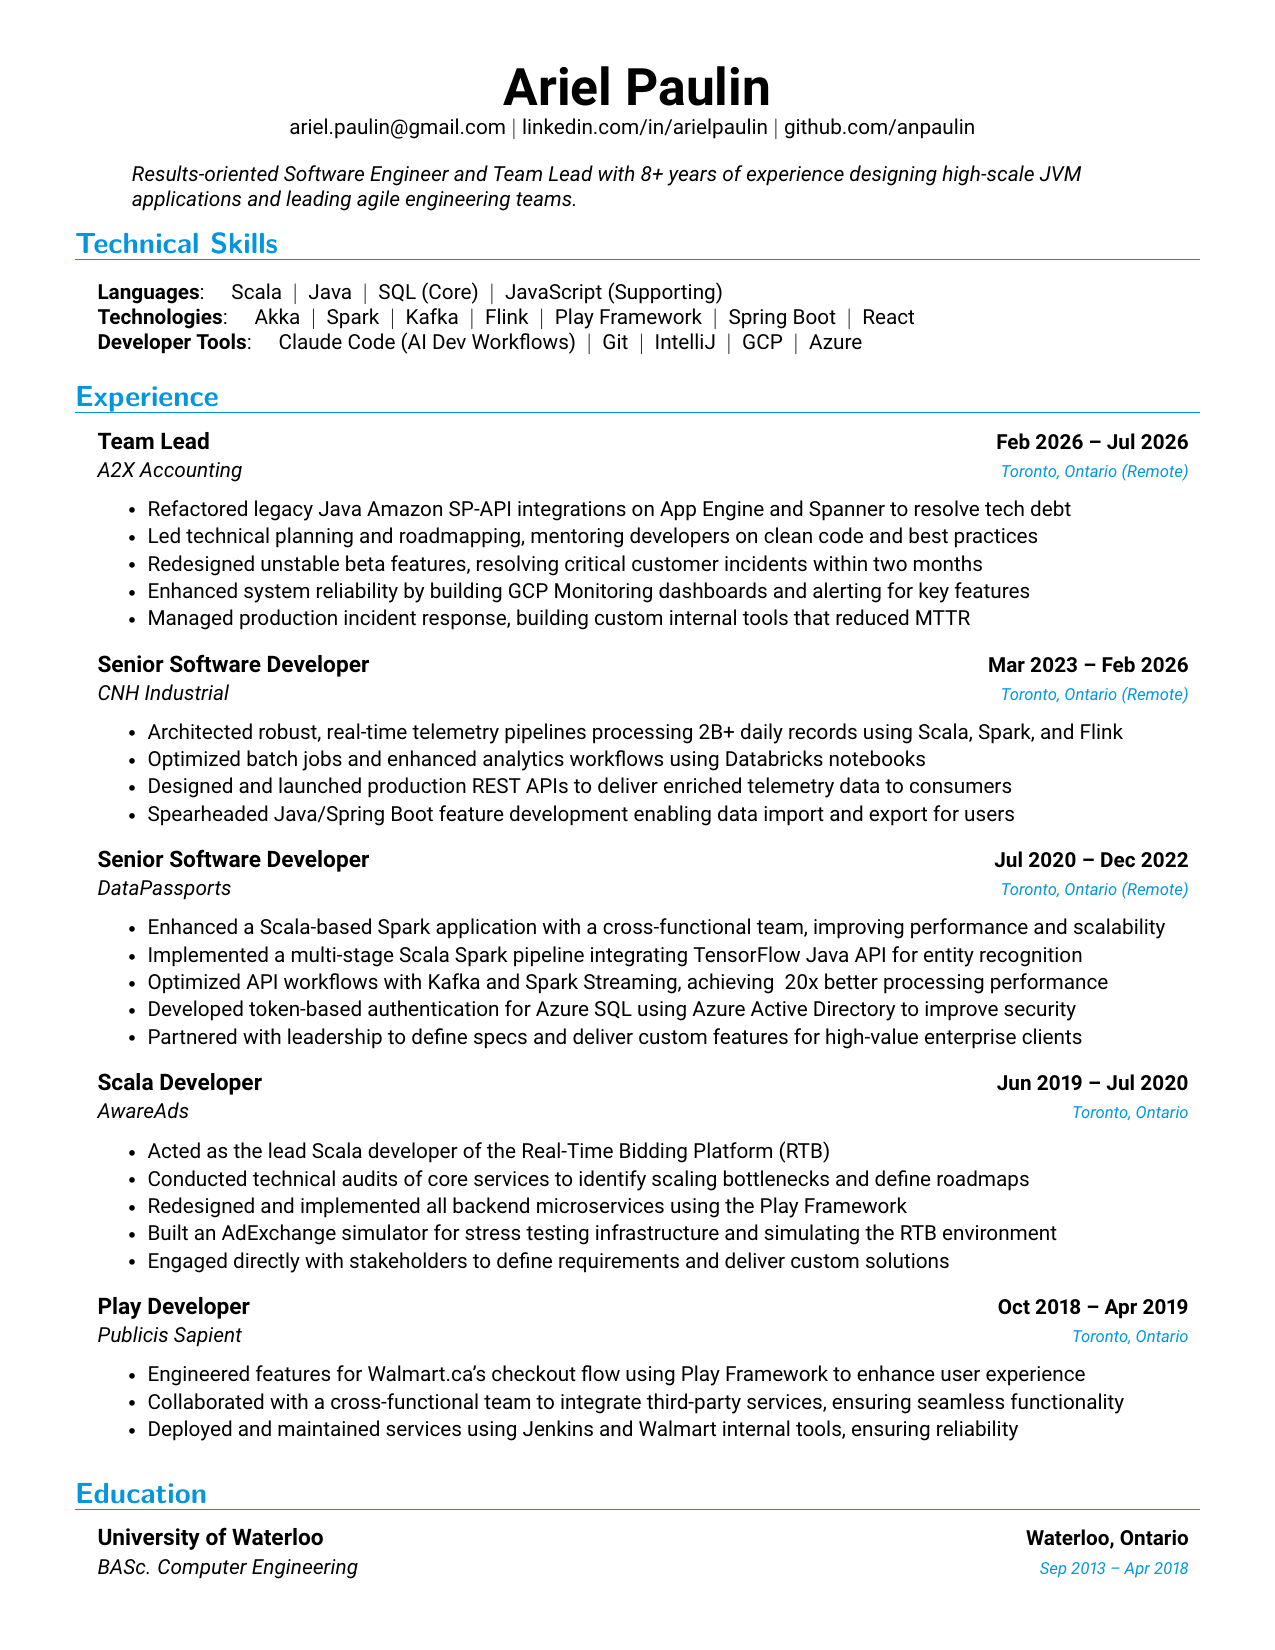
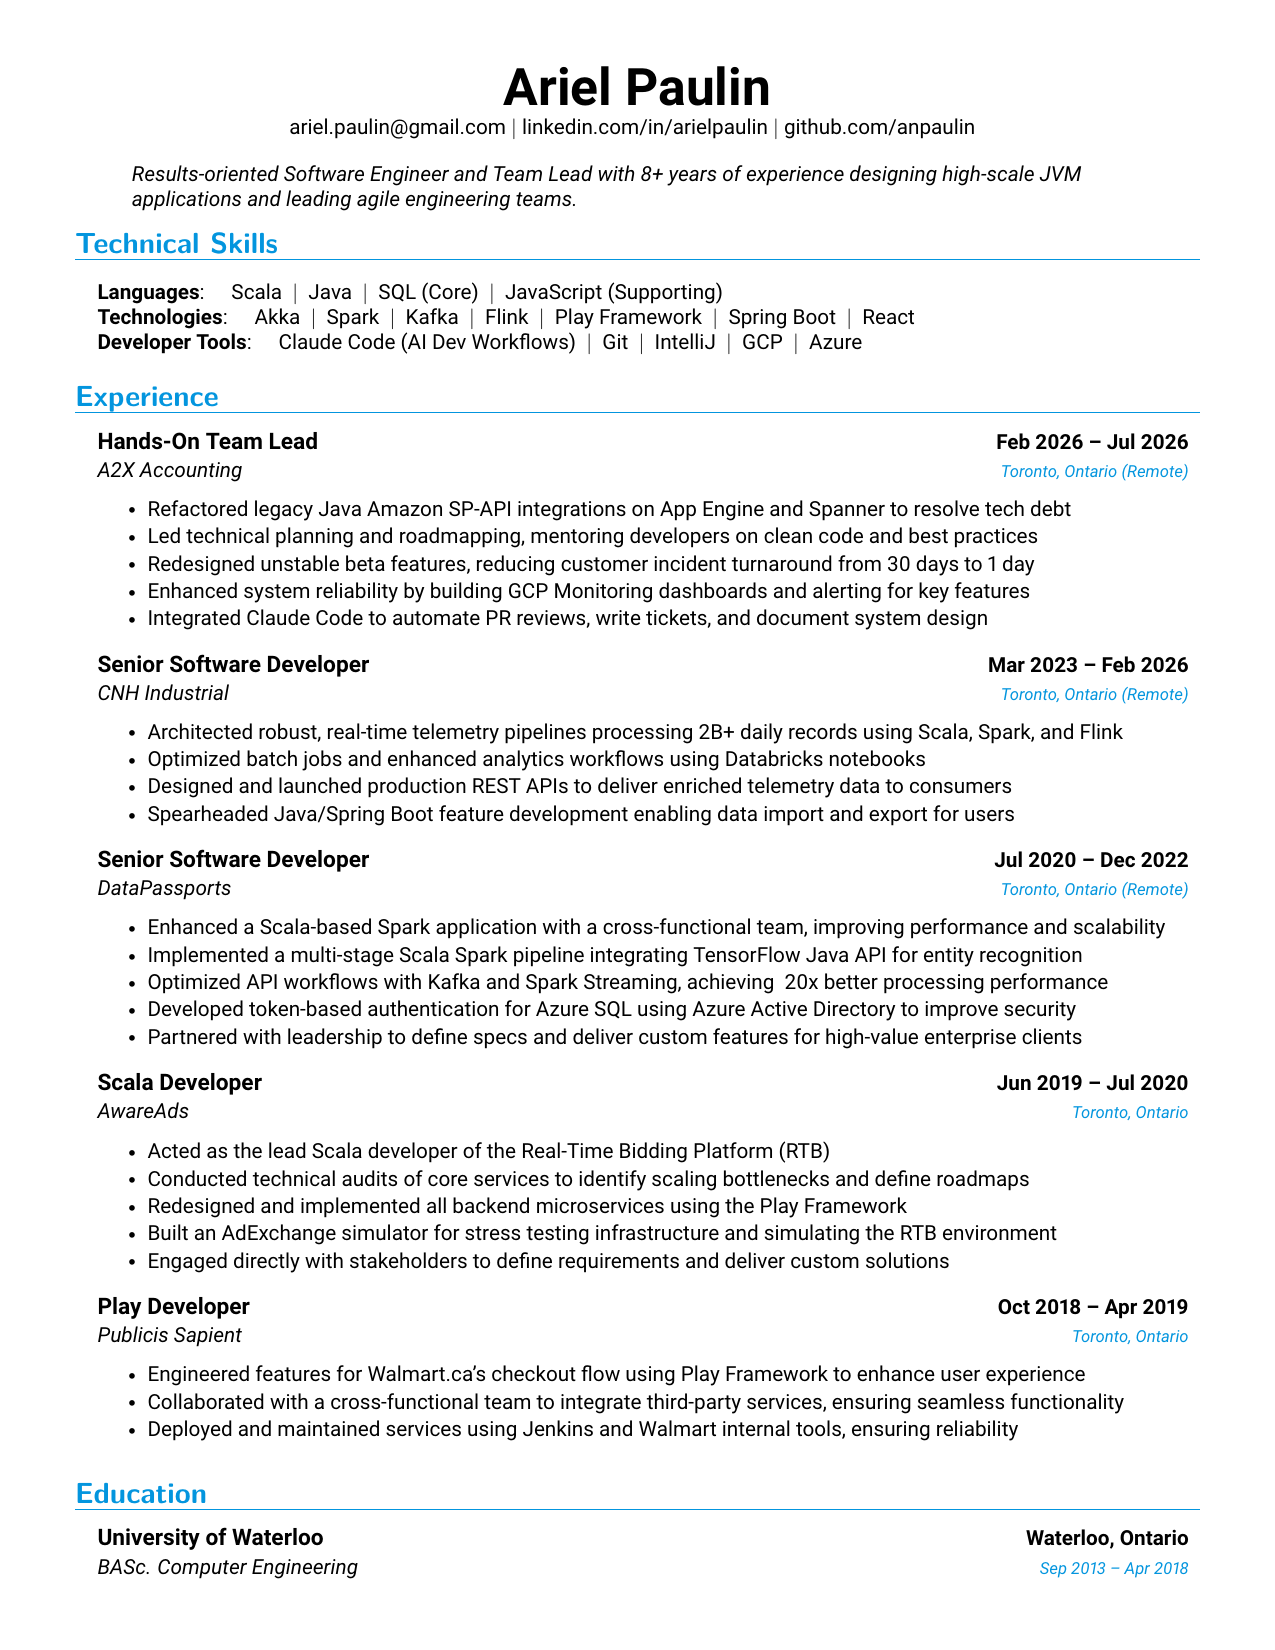
Update A2X experience: add Hands-On prefix to title, quantify incident turnaround reduction, and detail Claude Code integration

Changed region(s): [[0.1224, 0.34, 0.7647, 0.4018], [0.0612, 0.2473, 0.2447, 0.2782]]

diff --git a/ariel_paulin.tex b/ariel_paulin.tex
@@ -154,14 +154,14 @@
   \resumeSubHeadingListStart
 
     \resumeSubheading
-      {Team Lead}{Feb 2026 -- Jul 2026}
+      {Hands-On Team Lead}{Feb 2026 -- Jul 2026}
       {A2X Accounting}{Toronto, Ontario (Remote)}
       \resumeItemListStart
         \resumeItem{Refactored legacy Java Amazon SP-API integrations on App Engine and Spanner to resolve tech debt}
         \resumeItem{Led technical planning and roadmapping, mentoring developers on clean code and best practices}
-        \resumeItem{Redesigned unstable beta features, resolving critical customer incidents within two months}
+        \resumeItem{Redesigned unstable beta features, reducing customer incident turnaround from 30 days to 1 day}
         \resumeItem{Enhanced system reliability by building GCP Monitoring dashboards and alerting for key features}
-        \resumeItem{Managed production incident response, building custom internal tools that reduced MTTR}
+        \resumeItem{Integrated Claude Code to automate PR reviews, write tickets, and document system design}
       \resumeItemListEnd
 
     \resumeSubheading
